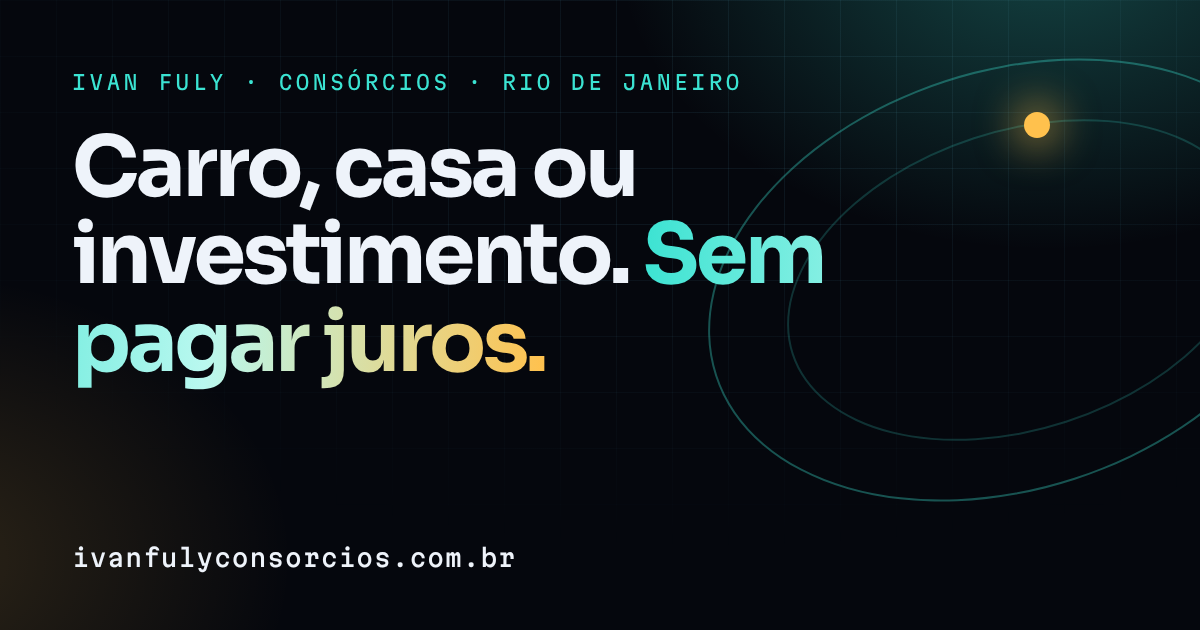
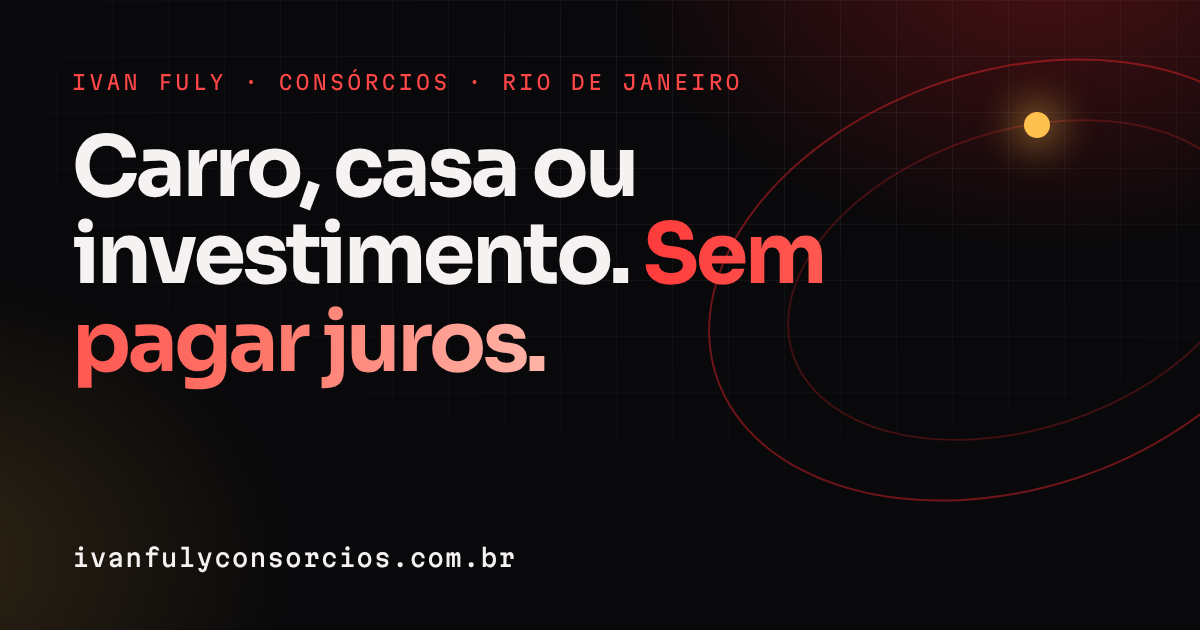
Aplica as cores da Ademicon no site
Troca o ciano pelo vermelho da marca em botoes, titulos, orbitas e
detalhes, deixa a carta de credito do topo vermelha e usa fundos neutros
escuros. O icone da aba e a imagem de compartilhamento seguem a nova
paleta. O logo nao entra ate haver autorizacao e arquivo oficial.

Claude-Session: https://claude.ai/code/session_01UwwMyBdCVbzacUj27URy4U

diff --git a/index.html b/index.html
@@ -7,7 +7,7 @@
 <meta name="description" content="Consórcio de veículos, imóveis e investimento no Rio de Janeiro, sem juros. Fale com o Ivan Fuly, consultor de consórcios, e descubra o plano certo pra você.">
 <link rel="canonical" href="https://ivanfulyconsorcios.com.br/">
 <link rel="icon" href="favicon.svg" type="image/svg+xml">
-<meta name="theme-color" content="#05070D">
+<meta name="theme-color" content="#09080A">
 <meta property="og:type" content="website">
 <meta property="og:locale" content="pt_BR">
 <meta property="og:site_name" content="Ivan Fuly Consórcios">
@@ -25,21 +25,21 @@
 /* Layout: noite no Rio. Fundo escuro com grade e brilho; no topo, a carta de crédito em holograma com as cotas do grupo orbitando; seções de vidro numa coluna larga. Tema único escuro, por escolha. */
 :root {
   color-scheme: dark;
-  --bg: #05070D;
-  --bg-2: #0B1120;
+  --bg: #09080A;
+  --bg-2: #141114;
   --glass: rgba(255, 255, 255, .035);
   --glass-2: rgba(255, 255, 255, .07);
   --line: rgba(255, 255, 255, .09);
   --line-2: rgba(255, 255, 255, .18);
-  --ink: #EEF3FA;
-  --muted: #95A3B8;
-  --cyan: #3BE3D2;
-  --cyan-ink: #03201D;
+  --ink: #F6F2F2;
+  --muted: #AFA4A6;
+  --cyan: #FF4747;
+  --cyan-ink: #FFFFFF;
   --gold: #FFC14D;
   --gold-ink: #241500;
   --wa: #25D366;
   --wa-ink: #03190B;
-  --grid: rgba(120, 220, 255, .055);
+  --grid: rgba(255, 255, 255, .045);
 
   --display: "Sora", "Segoe UI", system-ui, -apple-system, sans-serif;
   --body: "Hanken Grotesk", system-ui, -apple-system, "Segoe UI", Roboto, sans-serif;
@@ -83,7 +83,7 @@ a { color: inherit; }
 .kicker::before { content: ""; width: 18px; height: 1px; background: currentColor; }
 .lede { color: var(--muted); font-size: 1.1rem; max-width: 38rem; }
 .grad {
-  background: linear-gradient(92deg, var(--cyan) 0%, #B9F8EF 48%, var(--gold) 100%);
+  background: linear-gradient(92deg, #FF3B3B 0%, #FF7468 55%, #FFB4A8 100%);
   -webkit-background-clip: text; background-clip: text; color: transparent;
 }
 .grad-ouro {
@@ -98,9 +98,9 @@ section { scroll-margin-top: 96px; }
 .sky {
   position: fixed; inset: 0; z-index: 0; pointer-events: none; overflow: hidden;
   background:
-    radial-gradient(60vw 45vw at 88% -8%, rgba(59, 227, 210, .16), transparent 62%),
+    radial-gradient(60vw 45vw at 88% -8%, rgba(232, 38, 43, .16), transparent 62%),
     radial-gradient(45vw 40vw at -8% 32%, rgba(255, 193, 77, .09), transparent 62%),
-    radial-gradient(70vw 50vw at 50% 118%, rgba(60, 90, 255, .12), transparent 62%),
+    radial-gradient(70vw 50vw at 50% 118%, rgba(150, 18, 28, .16), transparent 62%),
     var(--bg);
 }
 .sky::before {
@@ -124,8 +124,8 @@ header, main, footer { position: relative; z-index: 1; }
 .btn svg { width: 20px; height: 20px; flex: none; }
 .btn-primary {
   color: var(--cyan-ink);
-  background: linear-gradient(135deg, var(--cyan), #A8F6EC);
-  box-shadow: 0 0 0 1px rgba(59, 227, 210, .4), 0 12px 40px -12px rgba(59, 227, 210, .75);
+  background: linear-gradient(135deg, #E3262B, #FF5A4E);
+  box-shadow: 0 0 0 1px rgba(232, 38, 43, .4), 0 12px 40px -12px rgba(232, 38, 43, .75);
 }
 .btn-ghost { color: var(--ink); background: var(--glass); border-color: var(--line-2); }
 .btn-ghost:hover { border-color: var(--cyan); }
@@ -142,7 +142,7 @@ header, main, footer { position: relative; z-index: 1; }
 .top-inner {
   display: flex; align-items: center; justify-content: space-between; gap: 16px;
   padding: 8px 8px 8px 20px; border-radius: 999px; border: 1px solid var(--line);
-  background: rgba(8, 12, 22, .62);
+  background: rgba(16, 12, 14, .62);
   -webkit-backdrop-filter: blur(14px) saturate(140%); backdrop-filter: blur(14px) saturate(140%);
 }
 .brand { display: grid; gap: 3px; text-decoration: none; }
@@ -174,7 +174,7 @@ header, main, footer { position: relative; z-index: 1; }
 .carta-wrap { position: relative; width: min(100%, 430px); display: grid; grid-template-columns: minmax(0, 1fr); gap: 18px; justify-items: center; }
 .modos {
   display: inline-flex; max-width: 100%; padding: 4px; border-radius: 999px; border: 1px solid var(--line);
-  background: rgba(8, 12, 22, .7);
+  background: rgba(16, 12, 14, .7);
   -webkit-backdrop-filter: blur(10px); backdrop-filter: blur(10px);
 }
 .modos button {
@@ -189,9 +189,9 @@ header, main, footer { position: relative; z-index: 1; }
   position: relative; width: 100%; max-width: 100%; aspect-ratio: 1.586; overflow: hidden;
   border-radius: 22px; padding: clamp(18px, 3.2vw, 26px);
   display: grid; grid-template-rows: auto 1fr auto;
-  background: linear-gradient(145deg, #15223A 0%, #0A101E 70%);
+  background: linear-gradient(145deg, #E8292E 0%, #A3141A 78%);
   border: 1px solid var(--line-2);
-  box-shadow: 0 40px 90px -36px rgba(59, 227, 210, .55), inset 0 1px 0 rgba(255, 255, 255, .14);
+  box-shadow: 0 40px 90px -36px rgba(232, 38, 43, .55), inset 0 1px 0 rgba(255, 255, 255, .14);
   transform: perspective(900px) rotateX(var(--rx, 0deg)) rotateY(var(--ry, 0deg));
   transition: transform .25s ease-out, box-shadow .4s ease;
 }
@@ -199,7 +199,7 @@ header, main, footer { position: relative; z-index: 1; }
 .carta::before {
   content: ""; position: absolute; inset: -45%; pointer-events: none; mix-blend-mode: screen; filter: blur(28px); opacity: .85;
   background: conic-gradient(from 200deg at var(--mx, 35%) var(--my, 30%),
-    rgba(59, 227, 210, 0), rgba(59, 227, 210, .25), rgba(255, 193, 77, .2), rgba(110, 130, 255, .22), rgba(59, 227, 210, 0));
+    rgba(255, 255, 255, 0), rgba(255, 255, 255, .22), rgba(255, 193, 77, .18), rgba(255, 255, 255, .14), rgba(255, 255, 255, 0));
 }
 .carta::after {
   content: ""; position: absolute; inset: 0; pointer-events: none;
@@ -207,7 +207,7 @@ header, main, footer { position: relative; z-index: 1; }
 }
 .carta > * { position: relative; z-index: 1; }
 .carta-top { display: flex; justify-content: space-between; align-items: center; gap: 12px; }
-.carta-top .mono, .carta-base .mono { font-size: .6rem; letter-spacing: .16em; text-transform: uppercase; color: var(--muted); }
+.carta-top .mono, .carta-base .mono { font-size: .6rem; letter-spacing: .16em; text-transform: uppercase; color: rgba(255, 255, 255, .78); }
 .chip-ic {
   width: 42px; height: 31px; border-radius: 7px; position: relative; flex: none;
   background: linear-gradient(135deg, #FFE4A3, #FFC14D 50%, #B98522);
@@ -218,11 +218,11 @@ header, main, footer { position: relative; z-index: 1; }
 .status {
   justify-self: start; display: inline-flex; align-items: center; gap: 7px;
   font-family: var(--mono); font-size: .6rem; letter-spacing: .14em; text-transform: uppercase;
-  color: var(--gold); padding: 4px 10px; border: 1px solid rgba(255, 193, 77, .45); border-radius: 999px; background: rgba(255, 193, 77, .08);
+  color: #FFFFFF; padding: 4px 10px; border: 1px solid rgba(255, 255, 255, .55); border-radius: 999px; background: rgba(255, 255, 255, .14);
 }
-.status::before { content: ""; width: 6px; height: 6px; border-radius: 50%; background: var(--gold); box-shadow: 0 0 8px var(--gold); }
+.status::before { content: ""; width: 6px; height: 6px; border-radius: 50%; background: #FFFFFF; box-shadow: 0 0 8px #FFFFFF; }
 .carta-titulo { font-family: var(--display); font-weight: 700; font-size: clamp(1.3rem, 3.4vw, 1.85rem); line-height: 1.1; letter-spacing: -.02em; }
-.carta-sub { color: var(--muted); font-size: .92rem; }
+.carta-sub { color: rgba(255, 255, 255, .86); font-size: .92rem; }
 .carta-base { display: flex; justify-content: space-between; align-items: end; gap: 12px; font-size: .82rem; font-weight: 600; }
 .troca { animation: trocar .45s ease; }
 @keyframes trocar { from { opacity: .25; transform: translateY(6px); } }
@@ -253,15 +253,15 @@ header, main, footer { position: relative; z-index: 1; }
 .caminho h3 { font-size: clamp(1.15rem, 1.8vw, 1.35rem); }
 .ic {
   width: 52px; height: 52px; border-radius: 14px; display: grid; place-items: center;
-  color: var(--cyan); background: rgba(59, 227, 210, .1); border: 1px solid rgba(59, 227, 210, .35);
-  box-shadow: 0 0 30px -6px rgba(59, 227, 210, .55);
+  color: var(--cyan); background: rgba(232, 38, 43, .1); border: 1px solid rgba(232, 38, 43, .35);
+  box-shadow: 0 0 30px -6px rgba(232, 38, 43, .55);
 }
 .ic svg { width: 26px; height: 26px; fill: none; stroke: currentColor; stroke-width: 1.8; stroke-linecap: round; stroke-linejoin: round; }
 .caminho--ouro {
   border: 1px solid transparent;
   background:
-    linear-gradient(180deg, #141A2A, #0B1120) padding-box,
-    conic-gradient(from var(--ang), rgba(255, 193, 77, .95), rgba(59, 227, 210, .55), rgba(255, 193, 77, .12), rgba(255, 193, 77, .95)) border-box;
+    linear-gradient(180deg, #1D1719, #141114) padding-box,
+    conic-gradient(from var(--ang), rgba(255, 193, 77, .95), rgba(232, 38, 43, .55), rgba(255, 193, 77, .12), rgba(255, 193, 77, .95)) border-box;
   animation: girar 7s linear infinite;
 }
 .caminho--ouro:hover { border-color: transparent; }
@@ -296,20 +296,20 @@ header, main, footer { position: relative; z-index: 1; }
   border: 1px solid rgba(255, 193, 77, .22);
   background:
     radial-gradient(90% 80% at 100% 0%, rgba(255, 193, 77, .13), transparent 60%),
-    radial-gradient(70% 70% at 0% 100%, rgba(59, 227, 210, .1), transparent 60%),
-    rgba(11, 17, 32, .75);
+    radial-gradient(70% 70% at 0% 100%, rgba(232, 38, 43, .1), transparent 60%),
+    rgba(22, 16, 18, .78);
 }
 .invest .kicker { color: var(--gold); }
 .fluxo { list-style: none; padding: 0; margin: 0; display: grid; grid-template-columns: repeat(4, minmax(0, 1fr)); gap: 20px; position: relative; }
 .fluxo::before {
   content: ""; position: absolute; left: 22px; right: 22px; top: 21px; height: 2px;
-  background: linear-gradient(90deg, var(--cyan), var(--gold)); opacity: .7; box-shadow: 0 0 14px rgba(59, 227, 210, .5);
+  background: linear-gradient(90deg, var(--cyan), var(--gold)); opacity: .7; box-shadow: 0 0 14px rgba(232, 38, 43, .5);
 }
 .fluxo li { position: relative; min-width: 0; display: grid; gap: 10px; align-content: start; }
 .no {
   width: 44px; height: 44px; border-radius: 50%; display: grid; place-items: center;
   font-family: var(--mono); font-size: .74rem; color: var(--cyan);
-  background: var(--bg-2); border: 1px solid var(--cyan); box-shadow: 0 0 22px -4px rgba(59, 227, 210, .75);
+  background: var(--bg-2); border: 1px solid var(--cyan); box-shadow: 0 0 22px -4px rgba(232, 38, 43, .75);
 }
 .fluxo .fim .no { color: var(--gold-ink); background: var(--gold); border-color: var(--gold); box-shadow: 0 0 28px -2px rgba(255, 193, 77, .85); }
 .fluxo p { color: var(--muted); font-size: .97rem; }
@@ -331,7 +331,7 @@ tbody tr:last-child th, tbody tr:last-child td { border-bottom: 0; }
 thead th { font-family: var(--mono); font-size: .64rem; font-weight: 500; letter-spacing: .14em; text-transform: uppercase; color: var(--muted); }
 tbody th { font-weight: 700; width: 26%; }
 tbody td { color: var(--muted); }
-.col-cons { background: rgba(59, 227, 210, .07); }
+.col-cons { background: rgba(232, 38, 43, .07); }
 tbody .col-cons { color: var(--ink); }
 thead .col-cons { color: var(--cyan); }
 
@@ -348,15 +348,15 @@ thead .col-cons { color: var(--cyan); }
   transition: border-color .15s ease, background-color .15s ease, box-shadow .15s ease;
 }
 .chip label:hover { border-color: var(--cyan); }
-.chip input:checked + label { border-color: var(--cyan); background: rgba(59, 227, 210, .13); box-shadow: 0 0 22px -6px rgba(59, 227, 210, .85); }
+.chip input:checked + label { border-color: var(--cyan); background: rgba(232, 38, 43, .13); box-shadow: 0 0 22px -6px rgba(232, 38, 43, .85); }
 .chip input:focus-visible + label { outline: 2px solid var(--cyan); outline-offset: 3px; }
 .recomendacao {
   position: sticky; top: calc(100px + env(safe-area-inset-top, 0px)); min-width: 0;
   display: grid; gap: 14px; padding: clamp(22px, 3vw, 30px); border-radius: var(--radius);
   border: 1px solid transparent;
   background:
-    linear-gradient(180deg, #111A2C, #0B1120) padding-box,
-    linear-gradient(160deg, rgba(59, 227, 210, .7), rgba(255, 255, 255, .06) 45%, rgba(255, 193, 77, .6)) border-box;
+    linear-gradient(180deg, #1B1517, #141114) padding-box,
+    linear-gradient(160deg, rgba(232, 38, 43, .7), rgba(255, 255, 255, .06) 45%, rgba(255, 193, 77, .6)) border-box;
 }
 .recomendacao h3 { font-size: 1.3rem; }
 .progresso { height: 6px; border-radius: 99px; overflow: hidden; background: var(--glass-2); }
@@ -369,9 +369,9 @@ thead .col-cons { color: var(--cyan); }
   display: grid; place-items: center; font-family: var(--display); font-weight: 700; font-size: clamp(1.8rem, 3.6vw, 3rem);
   border: 3px solid transparent;
   background:
-    radial-gradient(circle at 30% 25%, #1C2B46, #0B1120 70%) padding-box,
+    radial-gradient(circle at 30% 25%, #2E1E21, #141114 70%) padding-box,
     conic-gradient(from var(--ang), var(--cyan), var(--gold), var(--cyan)) border-box;
-  box-shadow: 0 0 60px -14px rgba(59, 227, 210, .6);
+  box-shadow: 0 0 60px -14px rgba(232, 38, 43, .6);
   animation: girar 8s linear infinite;
 }
 .sobre-texto { display: grid; gap: 16px; max-width: 42rem; }
@@ -383,7 +383,7 @@ thead .col-cons { color: var(--cyan); }
 /* Dúvidas */
 .faq { display: grid; gap: 10px; max-width: 54rem; }
 .faq details { border-radius: 18px; border: 1px solid var(--line); background: var(--glass); transition: border-color .2s ease; }
-.faq details[open] { border-color: rgba(59, 227, 210, .35); }
+.faq details[open] { border-color: rgba(232, 38, 43, .35); }
 .faq summary { list-style: none; cursor: pointer; position: relative; padding: 18px 56px 18px 22px; font-weight: 700; font-size: 1.03rem; }
 .faq summary::-webkit-details-marker { display: none; }
 .faq summary::after {
@@ -398,7 +398,7 @@ thead .col-cons { color: var(--cyan); }
   position: relative; overflow: hidden; border-radius: 30px; border: 1px solid var(--line-2);
   padding: clamp(30px, 5.5vw, 68px); display: grid; grid-template-columns: minmax(0, 1fr) auto; gap: 28px; align-items: center;
   background:
-    radial-gradient(80% 120% at 100% 0%, rgba(59, 227, 210, .3), transparent 60%),
+    radial-gradient(80% 120% at 100% 0%, rgba(232, 38, 43, .3), transparent 60%),
     radial-gradient(70% 120% at 0% 100%, rgba(255, 193, 77, .18), transparent 60%),
     var(--bg-2);
 }
@@ -429,7 +429,7 @@ thead .col-cons { color: var(--cyan); }
   position: fixed; z-index: 30; left: 50%; transform: translateX(-50%);
   bottom: calc(92px + env(safe-area-inset-bottom, 0px)); max-width: calc(100% - 32px);
   padding: 12px 18px; border-radius: 14px; border: 1px solid var(--line-2);
-  background: #111A2C; color: var(--ink); font-weight: 600; font-size: .95rem; text-align: center;
+  background: #1B1517; color: var(--ink); font-weight: 600; font-size: .95rem; text-align: center;
 }
 
 @media (max-width: 980px) {
@@ -881,7 +881,7 @@ const orbita = (() => {
     ANEIS.forEach((anel) => {
       ctx.beginPath();
       ctx.ellipse(w / 2, h / 2, anel.r * w, anel.r * h * 0.95, INCLINA, 0, Math.PI * 2);
-      ctx.strokeStyle = "rgba(160, 220, 255, 0.1)";
+      ctx.strokeStyle = "rgba(255, 255, 255, 0.08)";
       ctx.stroke();
     });
     cotas.forEach((c, i) => {
@@ -889,7 +889,7 @@ const orbita = (() => {
       const [x, y] = posicao(c);
       ctx.beginPath();
       ctx.arc(x, y, 2.2, 0, Math.PI * 2);
-      ctx.fillStyle = "rgba(59, 227, 210, 0.55)";
+      ctx.fillStyle = "rgba(232, 38, 43, 0.55)";
       ctx.fill();
     });
     if (alvo >= 0) {
